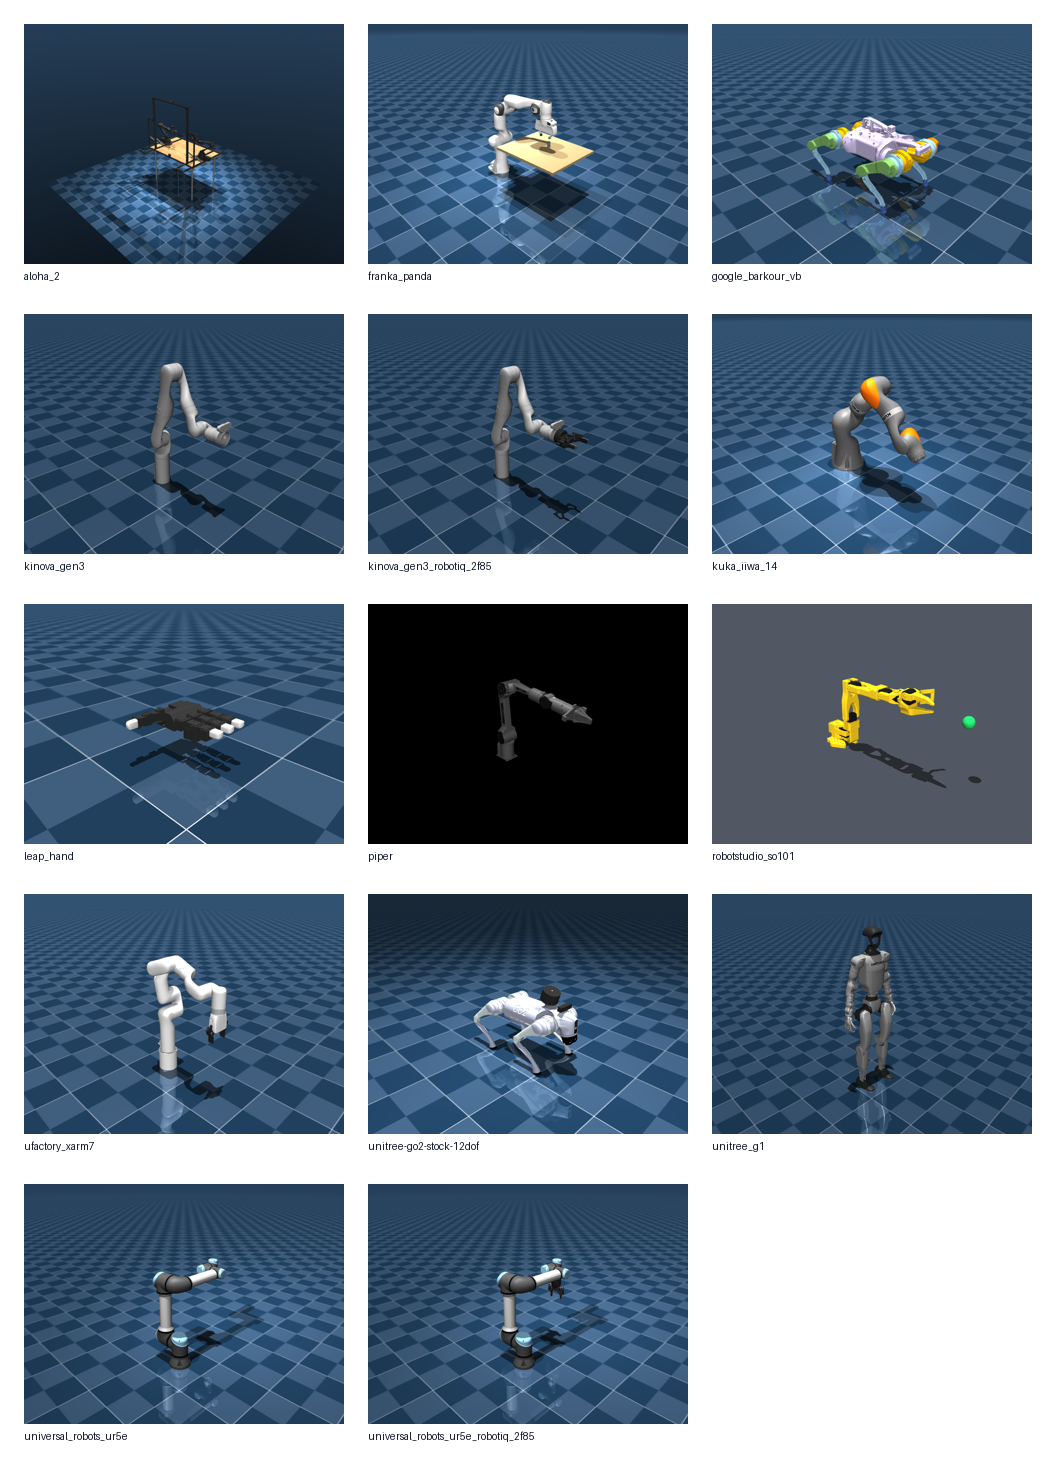
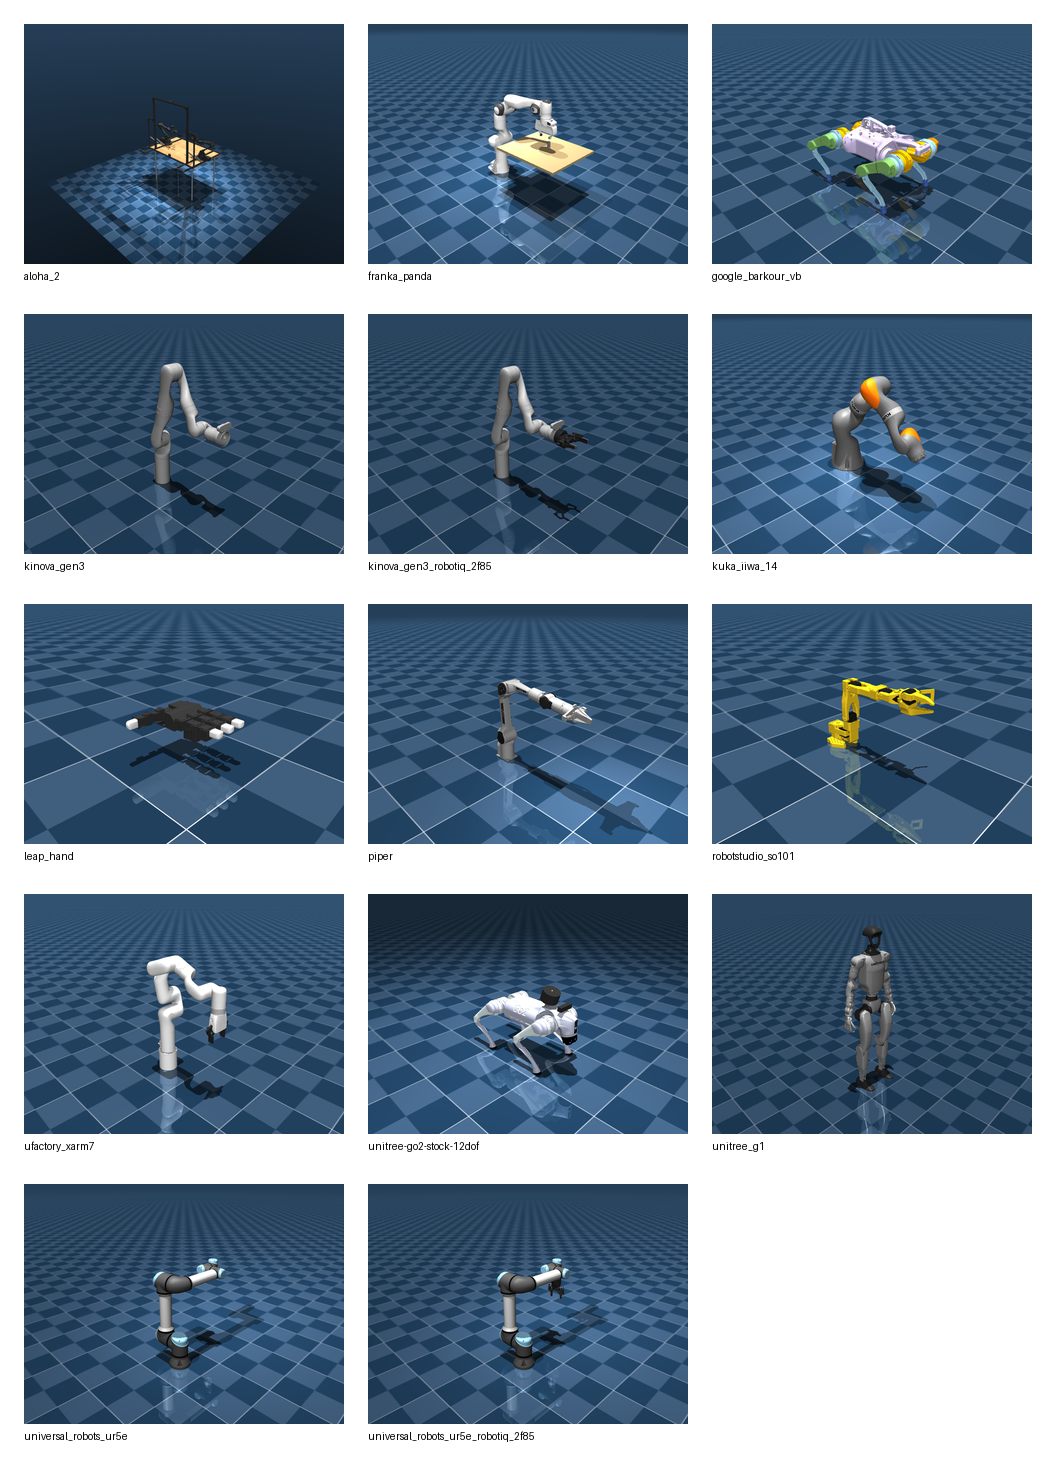
Fix Piper and SO-101 presentation renders

Changed region(s): [[0.3438, 0.4057, 1.0, 0.5929]]

diff --git a/tools/render_robot_mujoco_scenes.py b/tools/render_robot_mujoco_scenes.py
@@ -9,13 +9,21 @@ from pathlib import Path
 
 import mujoco
 import numpy as np
-from PIL import Image
+from PIL import Image, ImageDraw
 
 
 ROOT = Path(__file__).resolve().parents[1]
 ROBOTS_ROOT = ROOT / "autoadapter" / "libraries" / "robots"
 DEFAULT_WIDTH = 800
 DEFAULT_HEIGHT = 600
+CONTACT_SHEET_COLUMNS = 3
+CONTACT_SHEET_TILE = (320, 240)
+CONTACT_SHEET_MARGIN = 24
+CONTACT_SHEET_LABEL_HEIGHT = 50
+PRESENTATION_ENTRYPOINTS = {
+    "piper": "assets/scene.xml",
+    "robotstudio_so101": "assets/scene.xml",
+}
 
 
 def _object_name(model: mujoco.MjModel, obj: mujoco.mjtObj, index: int) -> str:
@@ -68,7 +76,10 @@ def _camera_for_model(model: mujoco.MjModel, data: mujoco.MjData) -> mujoco.MjvC
 
 def _render_package(package_root: Path, width: int, height: int) -> Path:
     morphology = json.loads((package_root / "morphology.json").read_text(encoding="utf-8"))
-    scene_path = package_root / morphology["mjcf_entrypoint"]
+    scene_entrypoint = PRESENTATION_ENTRYPOINTS.get(
+        package_root.parent.name, morphology["mjcf_entrypoint"]
+    )
+    scene_path = package_root / scene_entrypoint
     model = mujoco.MjModel.from_xml_path(str(scene_path))
     model.vis.global_.offwidth = max(int(model.vis.global_.offwidth), width)
     model.vis.global_.offheight = max(int(model.vis.global_.offheight), height)
@@ -88,20 +99,63 @@ def _render_package(package_root: Path, width: int, height: int) -> Path:
     return output_path
 
 
+def _write_contact_sheet(robots_root: Path) -> Path:
+    scene_paths = sorted(robots_root.glob("*/1.0.0/mujoco_scene.png"))
+    if not scene_paths:
+        raise SystemExit(f"no mujoco_scene.png files found under {robots_root}")
+
+    tile_width, tile_height = CONTACT_SHEET_TILE
+    row_height = tile_height + CONTACT_SHEET_LABEL_HEIGHT
+    rows = (len(scene_paths) + CONTACT_SHEET_COLUMNS - 1) // CONTACT_SHEET_COLUMNS
+    sheet_width = (
+        CONTACT_SHEET_MARGIN * (CONTACT_SHEET_COLUMNS + 1)
+        + tile_width * CONTACT_SHEET_COLUMNS
+    )
+    sheet_height = CONTACT_SHEET_MARGIN + rows * row_height
+    sheet = Image.new("RGB", (sheet_width, sheet_height), "white")
+    draw = ImageDraw.Draw(sheet)
+
+    for index, scene_path in enumerate(scene_paths):
+        row, column = divmod(index, CONTACT_SHEET_COLUMNS)
+        x = CONTACT_SHEET_MARGIN + column * (tile_width + CONTACT_SHEET_MARGIN)
+        y = CONTACT_SHEET_MARGIN + row * row_height
+        with Image.open(scene_path) as scene:
+            thumbnail = scene.convert("RGB").resize(
+                CONTACT_SHEET_TILE, Image.Resampling.LANCZOS
+            )
+            sheet.paste(thumbnail, (x, y))
+        draw.text((x, y + tile_height + 6), scene_path.parent.parent.name, fill="black")
+
+    output_path = robots_root / "mujoco_scene_contact_sheet.png"
+    sheet.save(output_path)
+    return output_path
+
+
 def main() -> int:
     parser = argparse.ArgumentParser()
     parser.add_argument("--robots-root", type=Path, default=ROBOTS_ROOT)
+    parser.add_argument("--robot", action="append", default=[])
     parser.add_argument("--width", type=int, default=DEFAULT_WIDTH)
     parser.add_argument("--height", type=int, default=DEFAULT_HEIGHT)
     args = parser.parse_args()
 
     morphology_paths = sorted(args.robots_root.glob("*/1.0.0/morphology.json"))
+    if args.robot:
+        selected = set(args.robot)
+        morphology_paths = [
+            path for path in morphology_paths if path.parent.parent.name in selected
+        ]
+        missing = selected - {path.parent.parent.name for path in morphology_paths}
+        if missing:
+            raise SystemExit(f"unknown robot package(s): {', '.join(sorted(missing))}")
     if not morphology_paths:
         raise SystemExit(f"no morphology.json files found under {args.robots_root}")
 
     for morphology_path in morphology_paths:
         output_path = _render_package(morphology_path.parent, args.width, args.height)
         print(output_path.relative_to(ROOT))
+    contact_sheet_path = _write_contact_sheet(args.robots_root)
+    print(contact_sheet_path.relative_to(ROOT))
     return 0
 
 
